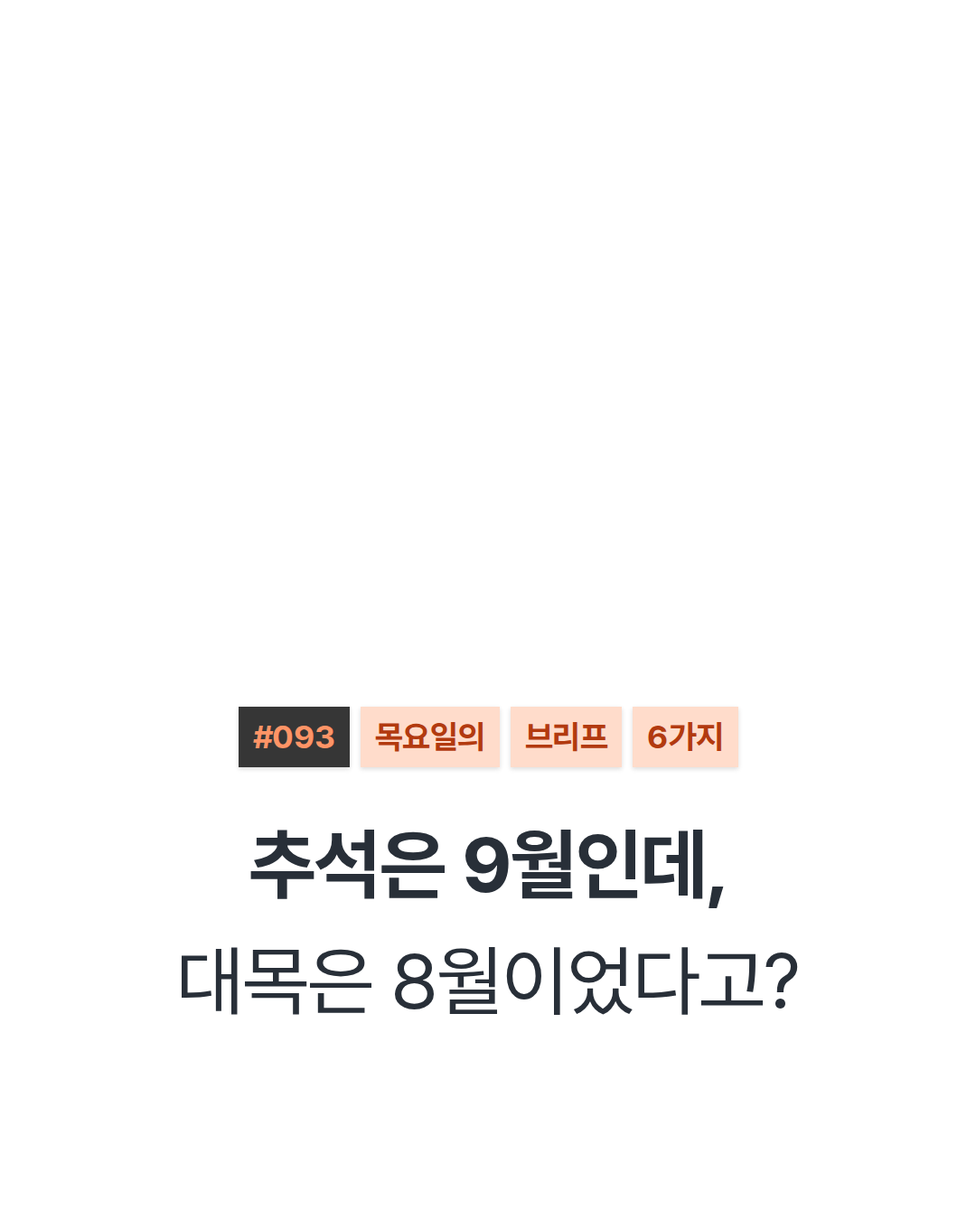
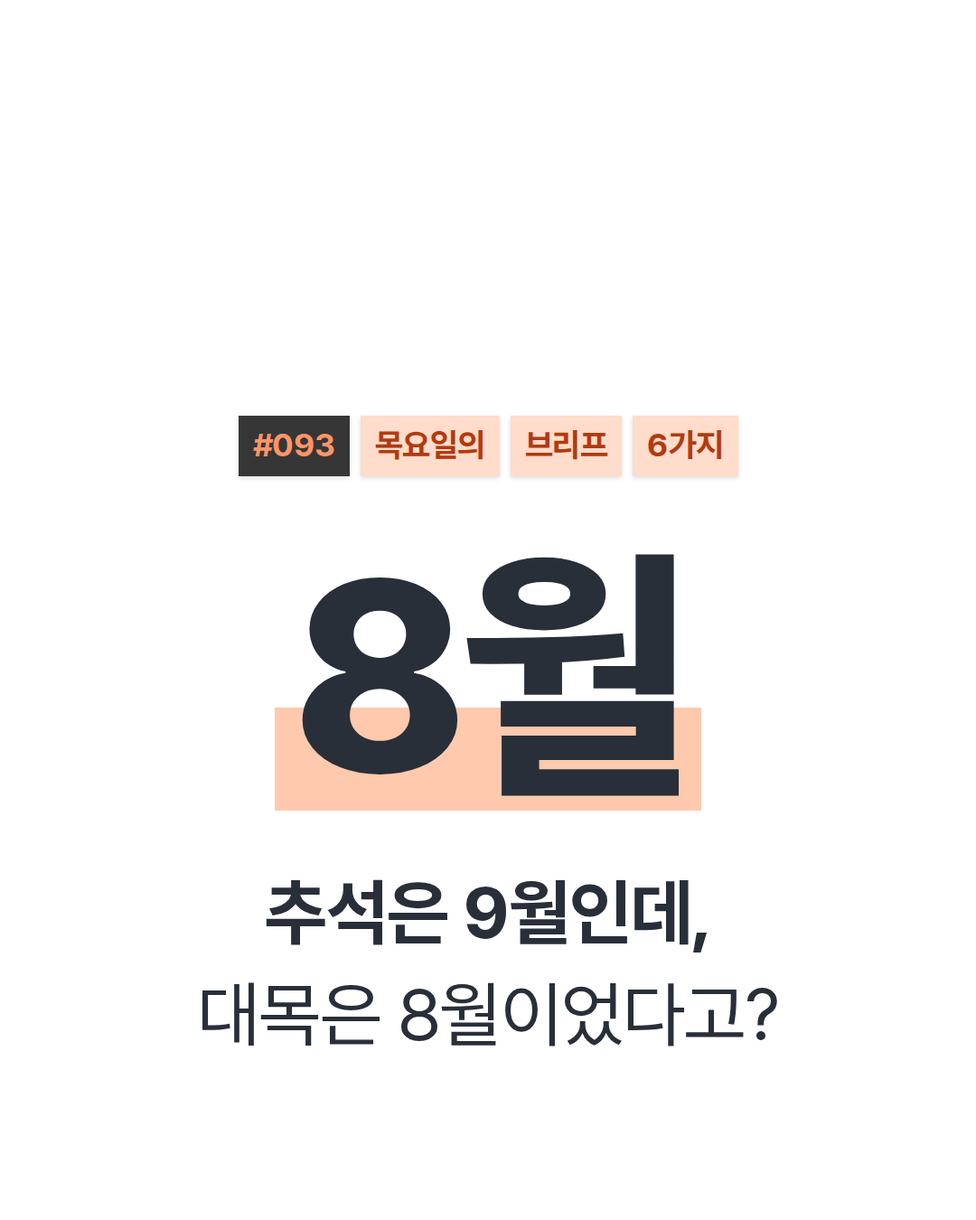
Adopt card layout B: cover keyword, summary card, shorter bodies
Rendered three drafts from the same VOL.093 content (A current magazine
set, B improved magazine set, C black editorial) and measured them at
phone-feed (390px) and profile-grid (130px) size. B was chosen:

- cover: large highlighted keyword (grid-size text 10.4px -> 36px)
- new card 02 "오늘의 6가지 한눈에" summary built from the issue cards
- issue cards: 1-2 sentence bodies (avg 127 -> 90 chars per card),
  larger type, optional supporting-metric tiles
- source text on white #939393 (3.1:1) -> #767676 (4.5:1, WCAG AA)
- keep "%"/digits glued to a following Korean particle when wrapping

Content gains cards.cover.keyword (defaults to the ==marked== word of
hero_title) and cards.issues[].metrics, with length limits; card body
limit tightened to 80 chars. 9 cards per issue; docs updated.

Claude-Session: https://claude.ai/code/session_01ERT3EipEoswRZZJYwfnxsr

Changed region(s): [[0.1833, 0.4356, 0.825, 0.8711], [0.2444, 0.3422, 0.7639, 0.4044]]

diff --git a/instagram/2026-09-24/index.html b/instagram/2026-09-24/index.html
@@ -30,16 +30,17 @@
 <main>
   <div class="kicker">EDIT H · CARD NEWS · VOL.093</div>
   <h1>추석은 9월인데, 대목은 8월이었다고?</h1>
-  <div class="meta">2026-09-24 (목) · 8장 · 1080×1350</div>
+  <div class="meta">2026-09-24 (목) · 9장 · 1080×1350</div>
   <div class="links"><a href="../../2026-09-24.html">뉴스레터 전문 읽기 →</a></div>
-  <figure><a href="01_edit_h_2026-09-24_cover.png" download><img src="01_edit_h_2026-09-24_cover.png" alt="카드 01/08" loading="lazy"></a><figcaption>01 / 08 · <a href="01_edit_h_2026-09-24_cover.png" download>저장</a></figcaption></figure>
-<figure><a href="02_edit_h_2026-09-24_issue1.png" download><img src="02_edit_h_2026-09-24_issue1.png" alt="카드 02/08" loading="lazy"></a><figcaption>02 / 08 · <a href="02_edit_h_2026-09-24_issue1.png" download>저장</a></figcaption></figure>
-<figure><a href="03_edit_h_2026-09-24_issue2.png" download><img src="03_edit_h_2026-09-24_issue2.png" alt="카드 03/08" loading="lazy"></a><figcaption>03 / 08 · <a href="03_edit_h_2026-09-24_issue2.png" download>저장</a></figcaption></figure>
-<figure><a href="04_edit_h_2026-09-24_issue3.png" download><img src="04_edit_h_2026-09-24_issue3.png" alt="카드 04/08" loading="lazy"></a><figcaption>04 / 08 · <a href="04_edit_h_2026-09-24_issue3.png" download>저장</a></figcaption></figure>
-<figure><a href="05_edit_h_2026-09-24_issue4.png" download><img src="05_edit_h_2026-09-24_issue4.png" alt="카드 05/08" loading="lazy"></a><figcaption>05 / 08 · <a href="05_edit_h_2026-09-24_issue4.png" download>저장</a></figcaption></figure>
-<figure><a href="06_edit_h_2026-09-24_issue5.png" download><img src="06_edit_h_2026-09-24_issue5.png" alt="카드 06/08" loading="lazy"></a><figcaption>06 / 08 · <a href="06_edit_h_2026-09-24_issue5.png" download>저장</a></figcaption></figure>
-<figure><a href="07_edit_h_2026-09-24_issue6.png" download><img src="07_edit_h_2026-09-24_issue6.png" alt="카드 07/08" loading="lazy"></a><figcaption>07 / 08 · <a href="07_edit_h_2026-09-24_issue6.png" download>저장</a></figcaption></figure>
-<figure><a href="08_edit_h_2026-09-24_cta.png" download><img src="08_edit_h_2026-09-24_cta.png" alt="카드 08/08" loading="lazy"></a><figcaption>08 / 08 · <a href="08_edit_h_2026-09-24_cta.png" download>저장</a></figcaption></figure>
+  <figure><a href="01_edit_h_2026-09-24_cover.png" download><img src="01_edit_h_2026-09-24_cover.png" alt="카드 01/09" loading="lazy"></a><figcaption>01 / 09 · <a href="01_edit_h_2026-09-24_cover.png" download>저장</a></figcaption></figure>
+<figure><a href="02_edit_h_2026-09-24_summary.png" download><img src="02_edit_h_2026-09-24_summary.png" alt="카드 02/09" loading="lazy"></a><figcaption>02 / 09 · <a href="02_edit_h_2026-09-24_summary.png" download>저장</a></figcaption></figure>
+<figure><a href="03_edit_h_2026-09-24_issue1.png" download><img src="03_edit_h_2026-09-24_issue1.png" alt="카드 03/09" loading="lazy"></a><figcaption>03 / 09 · <a href="03_edit_h_2026-09-24_issue1.png" download>저장</a></figcaption></figure>
+<figure><a href="04_edit_h_2026-09-24_issue2.png" download><img src="04_edit_h_2026-09-24_issue2.png" alt="카드 04/09" loading="lazy"></a><figcaption>04 / 09 · <a href="04_edit_h_2026-09-24_issue2.png" download>저장</a></figcaption></figure>
+<figure><a href="05_edit_h_2026-09-24_issue3.png" download><img src="05_edit_h_2026-09-24_issue3.png" alt="카드 05/09" loading="lazy"></a><figcaption>05 / 09 · <a href="05_edit_h_2026-09-24_issue3.png" download>저장</a></figcaption></figure>
+<figure><a href="06_edit_h_2026-09-24_issue4.png" download><img src="06_edit_h_2026-09-24_issue4.png" alt="카드 06/09" loading="lazy"></a><figcaption>06 / 09 · <a href="06_edit_h_2026-09-24_issue4.png" download>저장</a></figcaption></figure>
+<figure><a href="07_edit_h_2026-09-24_issue5.png" download><img src="07_edit_h_2026-09-24_issue5.png" alt="카드 07/09" loading="lazy"></a><figcaption>07 / 09 · <a href="07_edit_h_2026-09-24_issue5.png" download>저장</a></figcaption></figure>
+<figure><a href="08_edit_h_2026-09-24_issue6.png" download><img src="08_edit_h_2026-09-24_issue6.png" alt="카드 08/09" loading="lazy"></a><figcaption>08 / 09 · <a href="08_edit_h_2026-09-24_issue6.png" download>저장</a></figcaption></figure>
+<figure><a href="09_edit_h_2026-09-24_cta.png" download><img src="09_edit_h_2026-09-24_cta.png" alt="카드 09/09" loading="lazy"></a><figcaption>09 / 09 · <a href="09_edit_h_2026-09-24_cta.png" download>저장</a></figcaption></figure>
   <section class="caption">
     <button type="button" id="copy">캡션 복사</button>
     <pre id="cap">추석은 9월인데, 대목은 8월이었다고? 🌕

diff --git a/automation/edith/cards.py b/automation/edith/cards.py
@@ -1,12 +1,16 @@
-"""카드뉴스(1080×1350, 4:5) — VOL.092부터 정식 발행에 쓴 '매거진 엔진'(로컬 templates/magazine/cards.js) 이식.
+"""카드뉴스(1080×1350, 4:5) — VOL.092 '매거진 엔진'(로컬 templates/magazine/cards.js) 이식 + 2026-09-24 개선안(B).
 
 Design M 카드뉴스 키트 '매거진 세트'(표지 24 → 본문 9 → 마무리 9) 규격을 재현한 것으로, 키트 원본
 파일·이미지는 쓰지 않고 실측한 치수·색만 옮겼다. 키트의 핑크는 EDIT H 브랜드 버밀리언 계열로 바꿨다.
 
-  01      표지     #호수·요일·브리프·N가지 칩 + 두 줄 제목(첫 줄 굵게). 사진이 있으면 사진 배경(37% 검정)
-  02~07   이슈 6장  말풍선 태그 → 형광 마커 숫자 → 번호 배지 → 제목 → 본문 → 인사이트 상자, 아래에서 위로 쌓는다
+  01      표지     #호수·요일·브리프·N가지 칩 + 핵심어 대형 형광 마커 + 두 줄 제목. 사진이 있으면 사진 배경
+  02      요약     '오늘의 6가지 한눈에' — 번호·제목·숫자 목록(키트 본문 19·20 문법). 저장을 부르는 카드
+  03~08   이슈 6장  말풍선 태그 → 형광 마커 숫자 → 보조 수치 상자 → 번호 배지 → 제목 → 짧은 본문 → 인사이트 상자
                    H PICK 1장은 검정 배경 + 윤곽 숫자 + 노란 '(H PICK · 오늘의 핵심)', compare형은 BEFORE/AFTER 상자
-  08      마무리   오늘의 저장각 + 프로필 카드(10개 이슈 전문 · 6장 핵심 카드 · N호 누적 발행)
+  09      마무리   오늘의 저장각 + 프로필 카드(10개 이슈 전문 · 6장 핵심 카드 · N호 누적 발행)
+
+개선안(B)을 고른 근거(A 현재·B·C 블랙 시안을 같은 내용으로 렌더링해 피드 390px·그리드 130px 크기로 측정):
+표지 최대 글자가 그리드에서 10px→36px, 카드당 글자 127→90자, 피드 본문 10.5→11.9px, 출처 글자 대비 3.1→4.5:1 이상.
 
 마크업: ==강조== = 형광 마커(검정 카드에서는 밝은 버밀리언 글자), **굵게**, \\n 줄바꿈.
 넘치면 렌더러가 --k 배율로 글자를 최대 20%까지 줄인다(content.CARD_LIMITS 가 먼저 막는다).
@@ -19,6 +23,7 @@ from .common import ROOT, esc as _esc
 
 W, H = 1080, 1350
 TEXT, SUB, MUTED = "#282F38", "#555558", "#939393"
+SRC_LIGHT = "#767676"  # 흰 배경 위 작은 글자 — WCAG AA 4.5:1 (#939393 은 3.1:1 이라 미달)
 ACC_BG, ACC_INK, ACC_ON_DARK, ACC_FILL = "#FFDCCB", "#B23A0F", "#FF9466", "#FFC9AD"
 CHIP_DARK, BOX = "#363636", "#F3F3F3"
 INK, PAPER, ACC = "#0D0C0A", "#F5F1E8", "#FF5233"  # 브랜드 원색(프로필 마크)
@@ -40,7 +45,9 @@ _MARK = re.compile(r"==(.+?)==")
 
 def esc(s):
     # 가운뎃점(·) 앞뒤에서 줄이 끊기면 다음 줄이 '·'로 시작하므로 단어 결합자(U+2060)로 묶는다
-    return re.sub(r"(?<=\S)·(?=\S)", "·", _esc(s))
+    # '60.8%가'처럼 숫자·% 뒤 조사가 다음 줄로 떨어지지 않게도 묶는다
+    s = re.sub(r"(?<=\S)·(?=\S)", "·", _esc(s))
+    return re.sub(r"(?<=[%0-9])(?=[가-힣])", "", s)
 
 
 def plain(s):
@@ -138,6 +145,11 @@ def cover(d):
     first, *rest = str(cov.get("title") or d["hero_title"]).split("\n")
     chips = [(f"#{d['vol']}", True), (f"{WEEKDAY_FULL[d['weekday']]}의", False), ("브리프", False),
              (f"{len(d['card_issues'])}가지", False)]
+    kw = cov["keyword"]
+    kw_size = fit_size(kw, 300)
+    keyword = (f'<div style="margin-top:70px;display:inline-block;padding:0 .06em;font-weight:800;font-size:{fs(kw_size)};'
+               f'line-height:1;letter-spacing:-{round(kw_size / 30)}px;color:{fg};white-space:nowrap;'
+               f'background:linear-gradient(180deg,transparent 62%,{ACC_FILL if not photo else "rgba(255,201,173,.55)"} 62%);">{esc(kw)}</div>')
     bg = ""
     if photo:
         bg = (f'<div style="position:absolute;inset:0;background:url(\'{_photo_uri(photo)}\') {cov.get("focus") or "center"}/cover no-repeat;"></div>'
@@ -146,13 +158,47 @@ def cover(d):
     credit = (f'<div style="position:absolute;right:60px;bottom:48px;font-size:20px;color:rgba(255,255,255,.72);">'
               f'{esc(cov["credit"])}</div>') if photo and cov.get("credit") else ""
     return _frame(f"""{bg}
-<div class="body" style="padding:0 60px 200px;justify-content:flex-end;text-align:center;">
+<div class="body" style="padding:0 60px 170px;justify-content:flex-end;align-items:center;text-align:center;">
   {chip_row(chips)}
-  <div class="bal" style="margin-top:43px;font-size:{fs(86)};line-height:1.5;letter-spacing:-1.5px;color:{fg};">
+  {keyword}
+  <div class="bal" style="margin-top:56px;font-size:{fs(80)};line-height:1.42;letter-spacing:-1.5px;color:{fg};">
     <div style="font-weight:700;">{plain(first)}</div>
     <div style="font-weight:400;">{plain(" ".join(rest))}</div>
   </div>
 </div>{credit}""", "#000000" if photo else "#FFFFFF")
+
+
+def hero_value(it):
+    return it["compare"]["to"]["value"] if it.get("compare") else it["number"]
+
+
+def summary(d):
+    """키트 본문 19·20(번호 목록) 문법 — 오늘의 6가지를 한 장에. 저장해두고 다시 볼 이유를 만든다."""
+    rows = "".join(
+        f'<div style="display:flex;align-items:center;gap:26px;padding:24px 0;border-bottom:2px solid #EAEAEA;">'
+        f'<div style="flex:none;width:52px;height:52px;border-radius:12px;background:{"#000000" if it.get("accent") else TEXT};color:#FFFFFF;'
+        f'display:flex;align-items:center;justify-content:center;font-weight:600;font-size:28px;">{i}</div>'
+        f'<div style="flex:1;min-width:0;font-weight:700;font-size:{fs(36)};line-height:1.3;color:{TEXT};">{plain(it["headline"])}</div>'
+        f'<div style="flex:none;font-weight:800;font-size:{fs(34)};color:{TEXT};white-space:nowrap;'
+        f'background:linear-gradient(180deg,transparent 58%,{ACC_FILL} 58%);">{esc(hero_value(it))}</div></div>'
+        for i, it in enumerate(d["card_issues"], 1))
+    n = len(d["card_issues"])
+    return _frame(f"""
+<div class="body" style="padding:60px 80px 150px;justify-content:center;">
+  <div style="text-align:center;font-weight:700;font-size:28px;color:#5A5A5E;">저장해두고 회의 전에 보세요</div>
+  <div style="text-align:center;margin-top:22px;font-weight:700;font-size:{fs(64)};letter-spacing:-1px;color:{TEXT};">오늘의 <span style="background:linear-gradient(180deg,transparent 58%,{ACC_FILL} 58%);">{n}가지</span> 한눈에</div>
+  <div style="flex:none;margin-top:44px;border-top:3px solid {TEXT};">{rows}</div>
+</div>""")
+
+
+def stat_tiles(metrics, dark):
+    """큰 숫자를 받쳐주는 보조 수치(최대 2개) — compare 상자와 같은 회색 상자 문법."""
+    tiles = "".join(
+        f'<div style="flex:1;min-width:0;background:{"#1E1E21" if dark else BOX};border-radius:24px;padding:22px 20px;text-align:center;">'
+        f'<div style="font-weight:800;font-size:{fs(46)};line-height:1.1;letter-spacing:-1px;color:{"#FFFFFF" if dark else TEXT};white-space:nowrap;">{esc(m["value"])}</div>'
+        f'<div style="font-weight:500;font-size:{fs(22)};line-height:1.35;margin-top:8px;color:{"#BDBDBD" if dark else SUB};">{esc(m["label"])}</div></div>'
+        for m in metrics)
+    return f'<div style="flex:none;display:flex;gap:14px;width:100%;margin-top:30px;">{tiles}</div>'
 
 
 def issue_card(it, n):
@@ -165,23 +211,26 @@ def issue_card(it, n):
         hero = outlined(it["number"])
     else:
         hero = marked_number(it["number"])
+    side = [m for m in it.get("metrics") or [] if m["value"] != hero_value(it)][:2]
+    tiles = stat_tiles(side, dark) if side else ""
     badge = (f'<div style="flex:none;width:60px;height:60px;border-radius:14px;background:{"#FFFFFF" if dark else TEXT};'
              f'color:{"#000000" if dark else "#FFFFFF"};display:flex;align-items:center;justify-content:center;'
              f'font-weight:600;font-size:32px;line-height:1;">{n}</div>')
-    pick = (f'<div style="margin-top:28px;font-weight:500;font-size:30px;line-height:1;color:#F5C84C;">'
+    pick = (f'<div style="margin-top:26px;font-weight:500;font-size:30px;line-height:1;color:#F5C84C;">'
             f'(H PICK · 오늘의 핵심)</div>') if dark else ""
     return _frame(f"""
-<div class="body" style="padding:0 80px 200px;justify-content:flex-end;align-items:center;text-align:center;">
+<div class="body" style="padding:0 80px 190px;justify-content:flex-end;align-items:center;text-align:center;">
   {bubble(it["tag"])}
   {hero}
-  <div style="flex:none;height:56px;"></div>
+  {tiles}
+  <div style="flex:none;height:50px;"></div>
   {badge}
   {pick}
-  <div class="bal" style="margin-top:{22 if dark else 36}px;font-weight:700;font-size:{fs(48)};line-height:1.38;letter-spacing:-1px;color:{fg};">{mk(it["headline"], fg, dark)}</div>
-  <div class="bal" style="margin-top:24px;font-weight:400;font-size:{fs(29)};line-height:1.62;color:{"#BDBDBD" if dark else SUB};">{mk(it["body"], fg, dark)}</div>
-  <div class="bal" style="flex:none;margin-top:34px;width:100%;background:{"#1E1E21" if dark else BOX};border-radius:34px;padding:30px 44px;font-weight:600;font-size:{fs(30)};line-height:1.5;color:{fg};">{mk(it["takeaway"], fg, dark)}</div>
+  <div class="bal" style="margin-top:{22 if dark else 32}px;font-weight:700;font-size:{fs(56)};line-height:1.34;letter-spacing:-1px;color:{fg};">{mk(it["headline"], fg, dark)}</div>
+  <div class="bal" style="margin-top:22px;font-weight:400;font-size:{fs(33)};line-height:1.55;color:{"#BDBDBD" if dark else SUB};">{mk(it["body"], fg, dark)}</div>
+  <div class="bal" style="flex:none;margin-top:32px;width:100%;background:{"#1E1E21" if dark else BOX};border-radius:34px;padding:28px 40px;font-weight:600;font-size:{fs(31)};line-height:1.5;color:{fg};">{mk(it["takeaway"], fg, dark)}</div>
 </div>
-<div style="position:absolute;left:60px;right:60px;bottom:84px;text-align:center;font-size:22px;line-height:1.4;color:{MUTED};">출처 · {esc(it["source"])}</div>""",
+<div style="position:absolute;left:60px;right:60px;bottom:80px;text-align:center;font-size:24px;line-height:1.4;color:{MUTED if dark else SRC_LIGHT};">출처 · {esc(it["source"])}</div>""",
                   "#000000" if dark else "#FFFFFF")
 
 
@@ -217,18 +266,18 @@ def cta(d):
       <div style="display:grid;grid-template-columns:repeat(3,1fr);margin-top:26px;">{stat_html}</div>
     </div>
   </div>
-  <div style="margin-top:26px;text-align:right;font-weight:400;font-size:30px;line-height:1;color:{MUTED};">{esc(link)}&gt;</div>
+  <div style="margin-top:26px;text-align:right;font-weight:400;font-size:30px;line-height:1;color:{SRC_LIGHT};">{esc(link)}&gt;</div>
   <div class="bal" style="margin-top:64px;text-align:center;font-weight:400;font-size:27px;line-height:1.6;color:{SUB};">{mk(tail)}</div>
 </div>""")
 
 
-CARD_NAMES = ["cover", "issue1", "issue2", "issue3", "issue4", "issue5", "issue6", "cta"]
+CARD_NAMES = ["cover", "summary", "issue1", "issue2", "issue3", "issue4", "issue5", "issue6", "cta"]
 
 
 def build(d, font_css):
     """(html 문자열, 파일명 목록)을 돌려준다. 카드 순서 = 파일명 순서."""
     issues = d["card_issues"]
-    sections = [cover(d)] + [issue_card(it, i) for i, it in enumerate(issues, 1)] + [cta(d)]
+    sections = [cover(d), summary(d)] + [issue_card(it, i) for i, it in enumerate(issues, 1)] + [cta(d)]
     files = [f"{i:02d}_edit_h_{d['date']}_{name}.png" for i, name in enumerate(CARD_NAMES, 1)]
     page = f"""<!DOCTYPE html><html lang="ko"><head><meta charset="UTF-8">
 <style>{font_css}

diff --git a/automation/edith/content.py b/automation/edith/content.py
@@ -10,12 +10,15 @@ class ContentError(ValueError):
 
 
 # 카드 한 장에 들어가는 글자 수 상한(공백·마크업 제외). 넘치면 렌더러가 폰트를 줄이는데,
-# 그 전에 여기서 먼저 막아 '글이 빽빽한 카드'를 원천적으로 줄인다. 기준은 VOL.092 실제 카드.
+# 그 전에 여기서 먼저 막아 '글이 빽빽한 카드'를 원천적으로 줄인다. 기준은 VOL.092 카드 + 개선안(B) 실측.
 CARD_LIMITS = {
     "cover_title": 34,       # 표지 두 줄 제목 합계
     "number": 9,             # 이슈 카드의 큰 숫자 (예: 300억원, 8.9조원, 82%)
     "headline": 26,          # 이슈 카드 제목 (두 줄)
-    "body": 130,             # 이슈 카드 본문
+    "body": 80,              # 이슈 카드 본문 — 1~2문장 (키트 본문 9 권장은 1문장)
+    "keyword": 5,            # 표지 대형 핵심어 (예: 8월, 새벽배송, 82%)
+    "metric_value": 8,       # 보조 수치 상자 값 (예: 11.9%)
+    "metric_label": 16,      # 보조 수치 상자 설명
     "takeaway": 60,          # 인사이트 상자
     "cta_headline": 34,      # 마무리 카드 질문
     "lead_point_title": 22,  # 뉴스레터 '오늘의 편지' 핵심 3개
@@ -73,6 +76,12 @@ def _card_issues(data, where):
                     raise ContentError(f"{w}: compare.{side} 에 value·label 이 모두 필요합니다")
         else:
             _need(ci, "number", w)
+        metrics = ci.get("metrics") or []
+        if len(metrics) > 3:
+            raise ContentError(f"{w}: metrics 는 3개 이하로 쓰세요(큰 숫자와 같은 값을 빼고 최대 2개가 상자로 나갑니다)")
+        for m in metrics:
+            if not m.get("value") or not m.get("label"):
+                raise ContentError(f"{w}: metrics 의 각 항목에 value·label 이 모두 필요합니다")
         src = by_no[no]
         out.append({**ci, "no": no, "tag": ci.get("tag") or src["tag"],
                     "source": ci.get("source") or source_label(src["sources"])})
@@ -152,6 +161,11 @@ def prepare(data, date_str):
     cards = data["cards"]
     cards.setdefault("cover", {})
     cards["cover"].setdefault("title", data["hero_title"])
+    if not cards["cover"].get("keyword"):
+        # 표지 핵심어 기본값: hero_title 의 ==강조== 첫 단어, 없으면 첫 카드의 큰 숫자
+        m = re.search(r"==(.+?)==", data["hero_title"])
+        first = data["card_issues"][0]
+        cards["cover"]["keyword"] = m.group(1) if m else (first.get("number") or first["compare"]["to"]["value"])
     if cards["cover"].get("photo") and not (ROOT / cards["cover"]["photo"]).exists():
         raise ContentError(f"{where}: cards.cover.photo 파일이 없습니다 ({cards['cover']['photo']})")
     if cards["cover"].get("photo") and not cards["cover"].get("credit"):
@@ -164,6 +178,7 @@ def prepare(data, date_str):
 
     problems = []
     _len_check(cards["cover"]["title"], CARD_LIMITS["cover_title"], "cards.cover.title(없으면 hero_title)", problems)
+    _len_check(cards["cover"]["keyword"], CARD_LIMITS["keyword"], "cards.cover.keyword(없으면 hero_title 의 ==강조==)", problems)
     for i, it in enumerate(data["card_issues"], 1):
         w = f"cards.issues[{i}]"
         if "number" in it:
@@ -171,6 +186,9 @@ def prepare(data, date_str):
         _len_check(it["headline"], CARD_LIMITS["headline"], f"{w}.headline", problems)
         _len_check(it["body"], CARD_LIMITS["body"], f"{w}.body", problems)
         _len_check(it["takeaway"], CARD_LIMITS["takeaway"], f"{w}.takeaway", problems)
+        for j, m in enumerate(it.get("metrics") or [], 1):
+            _len_check(m["value"], CARD_LIMITS["metric_value"], f"{w}.metrics[{j}].value", problems)
+            _len_check(m["label"], CARD_LIMITS["metric_label"], f"{w}.metrics[{j}].label", problems)
     _len_check(cta["headline"], CARD_LIMITS["cta_headline"], "cards.cta.headline(없으면 question.text)", problems)
     for i, p in enumerate(data.get("lead_points") or [], 1):
         _len_check(p["title"], CARD_LIMITS["lead_point_title"], f"lead_points[{i}].title", problems)

diff --git a/automation/RUNBOOK.md b/automation/RUNBOOK.md
@@ -92,7 +92,7 @@ IT·산업 전문지(전자신문, ZDNet Korea, 디지털데일리, AI타임스,
 | `sections` | 2~4개, 아이템 합계 **정확히 9개**(보통 3×3). 섹션: `label`(카테고리, 예 `생활/소비 & 여행/레저`)·`title`. 아이템: `tag`, `title`, `body`(2~3문장), `takeaway`(1문장), `sources` |
 | `briefs` | 0~3개 짧은 소식 |
 | `question` | `text`(강조 `==…==`, 줄바꿈 `\n`), `closing` |
-| `cards` | 카드뉴스 8장용 — 아래 '카드뉴스' 참고 |
+| `cards` | 카드뉴스 9장용 — 아래 '카드뉴스' 참고 |
 | `instagram` | `caption`, `hashtags` (없으면 VOL.092 형식으로 자동 생성) |
 
 - 마크업: `**굵게**`, `==강조색==`, `\n` 줄바꿈. HTML 태그는 쓰지 않는다.
@@ -101,14 +101,15 @@ IT·산업 전문지(전자신문, ZDNet Korea, 디지털데일리, AI타임스,
   `date` 는 확인한 경우에만 쓰고, 모르면 필드를 빼도 된다(추측해서 채우지 않는다).
 - 글자 수 상한은 `automation/edith/content.py` 의 `CARD_LIMITS`. 넘으면 빌드가 무엇을 줄일지 알려준다.
 
-### 카드뉴스 (`cards`, 8장 — VOL.092 매거진 엔진)
+### 카드뉴스 (`cards`, 9장 — VOL.092 매거진 엔진 + 개선안 B)
 
-`01 표지 → 02~07 이슈 6장 → 08 마무리`. 뉴스레터 10개 중 **6개**를 골라 한 장에 한 주제·한 숫자로 만든다.
+`01 표지 → 02 오늘의 6가지 요약 → 03~08 이슈 6장 → 09 마무리`. 뉴스레터 10개 중 **6개**를 골라 한 장에 한 주제·한 숫자로 만든다.
+요약 카드는 이슈 카드의 제목·숫자로 자동으로 만들어진다.
 
 | 필드 | 내용 |
 |---|---|
-| `cards.cover` | `title`(두 줄, 없으면 `hero_title`). 사진을 쓰려면 `photo`(저장소 안 경로)·`credit`(출처·라이선스)·`focus`(선택). 없으면 흰 표지 |
-| `cards.issues` | 정확히 6개. `no`(뉴스레터 이슈 번호 1~10 — 태그·출처를 거기서 가져온다), `number`(큰 숫자, 9자 이하 예 `300억원`·`82%`), `headline`(두 줄 26자 이하, 핵심어 하나 `==강조==`), `body`(130자 이하), `takeaway`(60자 이하, 인사이트 상자). 선택: `accent: true`(H PICK — 검정 반전, **하루 한 장**), `compare`(`{"from": {"value", "label"}, "to": {...}}` — 이전→이후 숫자가 핵심일 때, 이때 `number` 는 생략), `tag`(말풍선 문구를 바꿀 때) |
+| `cards.cover` | `title`(두 줄, 없으면 `hero_title`), `keyword`(표지에 크게 찍힐 핵심어 5자 이하 — 없으면 `hero_title` 의 `==강조==`). 사진을 쓰려면 `photo`(저장소 안 경로)·`credit`(출처·라이선스)·`focus`(선택). 없으면 흰 표지 |
+| `cards.issues` | 정확히 6개. `no`(뉴스레터 이슈 번호 1~10 — 태그·출처를 거기서 가져온다), `number`(큰 숫자, 9자 이하 예 `300억원`·`82%`), `headline`(두 줄 26자 이하, 핵심어 하나 `==강조==`), `body`(**1~2문장, 80자 이하** — 뉴스레터 본문을 그대로 옮기지 말고 핵심만), `takeaway`(60자 이하, 인사이트 상자). 선택: `metrics`(큰 숫자를 받쳐줄 보조 수치 `[{"value": "11.9%", "label": "8월 백화점 매출 증가"}]` 최대 2개, 값 8자·설명 16자 이하), `accent: true`(H PICK — 검정 반전, **하루 한 장**), `compare`(`{"from": {"value", "label"}, "to": {...}}` — 이전→이후 숫자가 핵심일 때, 이때 `number` 는 생략), `tag`(말풍선 문구를 바꿀 때) |
 | `cards.cta` | `headline`(없으면 `question.text`), 나머지(`kick` 오늘의 저장각·`sub`·`pill`)는 기본값 |
 
 카드 문구 원칙(디자인엠 키트의 기획 가이드를 EDIT H에 맞게 줄인 것):
@@ -131,7 +132,7 @@ python3 automation/build_issue.py {날짜}           # 뉴스레터·카드·man
 
 ## 4. 눈으로 검수 (생략 금지)
 
-- Read 도구로 `instagram/{날짜}/*.png` **8장 모두** 본다: 글자 잘림·겹침, 어색한 줄바꿈, 오탈자, 숫자·단위.
+- Read 도구로 `instagram/{날짜}/*.png` **9장 모두** 본다: 글자 잘림·겹침, 어색한 줄바꿈, 오탈자, 숫자·단위.
 - 뉴스레터: `node automation/preview_newsletter.cjs {날짜}.html <스크래치 폴더>/nl` 후 `<스크래치 폴더>/nl_*.png` 를 본다
   (두 번째 인자가 출력 경로 접두어. 세션에 스크래치 폴더가 있으면 그곳을, 없으면 `/tmp` 를 쓴다)
 - 고칠 게 있으면 JSON 수정 → 3단계 재실행.

diff --git a/automation/README.md b/automation/README.md
@@ -6,14 +6,14 @@
 08:00 KST  Claude 클라우드 루틴 시작 ─ automation/RUNBOOK.md 대로
            ├ 안장출근길 확인 → 없으면 주요 매체 검색으로 10개 선정·사실 확인
            ├ content/YYYY-MM-DD.json 작성
-           ├ build_issue.py → 뉴스레터 HTML · 카드뉴스 8장 · manifest · index
+           ├ build_issue.py → 뉴스레터 HTML · 카드뉴스 9장 · manifest · index
            └ main 에 푸시 → GitHub Pages 에 게시
 09:00 KST  GitHub Actions(send-newsletter.yml) → 구독자에게 메일 발송
            (08:40 에 예약 실행 → 09:00 까지 대기 후 발송. 루틴이 늦어 09:00 이후 푸시되면 푸시 즉시 발송)
 ```
 
 - 주말과 `holidays_kr.json` 의 공휴일은 건너뛴다(`config.json` 의 `publish_days` 로 요일 변경 가능).
-- 카드뉴스는 `instagram/YYYY-MM-DD/` 에 PNG 8장 + 캡션(`caption.txt`) + 휴대폰용 갤러리 페이지
+- 카드뉴스는 `instagram/YYYY-MM-DD/` 에 PNG 9장 + 캡션(`caption.txt`) + 휴대폰용 갤러리 페이지
   (`https://vetnam555-del.github.io/edit-h-archive/instagram/YYYY-MM-DD/`)로 올라간다.
   인스타그램 업로드는 이 페이지에서 저장·캡션 복사 후 직접 올리면 된다.
 
@@ -80,9 +80,18 @@ content/YYYY-MM-DD.json 호마다의 원본 콘텐츠(출처 URL 포함)
 → 번호 배지 빅이슈(큰 숫자 박스·마케터의 한 줄·오늘 점검할 것) → `#1` `#2` 섹션별 02~10 → 짧게 볼 것 → Q 오늘의 질문
 → 프로필 카드·구독 버튼. VOL.092 대비 바꾼 점은 출처를 원문 링크로 건 것과 '카드뉴스 보기' 링크를 더한 것뿐이다.
 
-**카드뉴스(1080×1350, 8장)** — VOL.092 정식 발행에 쓴 로컬 '매거진 엔진'(`마케팅카드뉴스_260703/templates/magazine/cards.js`)을
-그대로 옮겼다. 디자인엠 카드뉴스 키트 '매거진 세트'(표지 24 → 본문 9 → 마무리 9)의 치수·색을 실측해 재현한 것으로,
-키트 원본 파일·이미지는 쓰지 않는다. 표지(칩 + 두 줄 제목, 사진 선택) · 이슈 6장(말풍선 태그 → 형광 숫자 → 번호 배지 →
-제목 → 본문 → 인사이트 상자, H PICK 1장은 검정 반전, 이전→이후는 BEFORE/AFTER 상자) · 마무리(프로필 카드).
-한 장에 한 메시지만 담도록 글자 수 상한(`content.py` 의 `CARD_LIMITS`)과 자동 축소(최대 20%)를 두고, 모든 이슈 카드에 출처를 단다.
-프로필 마크는 VOL.092 발행 뒤 바뀐 최신 버전(버밀리언 원 + 안경)으로 뉴스레터와 카드에 똑같이 쓴다.
+**카드뉴스(1080×1350, 9장)** — VOL.092 정식 발행에 쓴 로컬 '매거진 엔진'(`마케팅카드뉴스_260703/templates/magazine/cards.js`,
+디자인엠 키트 '매거진 세트' 표지 24 → 본문 9 → 마무리 9 재현)을 옮긴 뒤, 2026-09-24 시안 비교로 개선안(B)을 채택했다.
+표지(칩 + 핵심어 대형 형광 마커 + 두 줄 제목) · 오늘의 6가지 요약 · 이슈 6장(말풍선 태그 → 형광 숫자 → 보조 수치 → 번호 → 제목 →
+1~2문장 본문 → 인사이트 상자, H PICK 1장은 검정 반전, 이전→이후는 BEFORE/AFTER 상자) · 마무리(프로필 카드).
+
+| 시안 비교(같은 VOL.093 내용, 휴대폰 피드 390px·프로필 그리드 130px 크기로 측정) | A 현재 | **B 채택** | C 블랙 |
+|---|---|---|---|
+| 그리드 썸네일 표지 최대 글자 | 10.4px | **36px** | 12.5px |
+| 카드당 글자 수(평균) | 127자 | **90자** | 90자 |
+| 피드 본문 글자 | 10.5px | **11.9px** | 10.8px |
+| 뉴스레터와 디자인 통일 | ○ | ○ | ✕ |
+| 저장 유도 장치 | 마무리 | **요약 + 마무리** | 마무리 |
+
+출처 글자는 흰 배경에서 #767676(대비 4.5:1)로 올렸다(키트 실측색 #939393 은 3.1:1 이라 접근성 기준 미달).
+키트 원본 파일·이미지는 쓰지 않는다. 프로필 마크는 VOL.092 발행 뒤 바뀐 최신 버전(버밀리언 원 + 안경).
